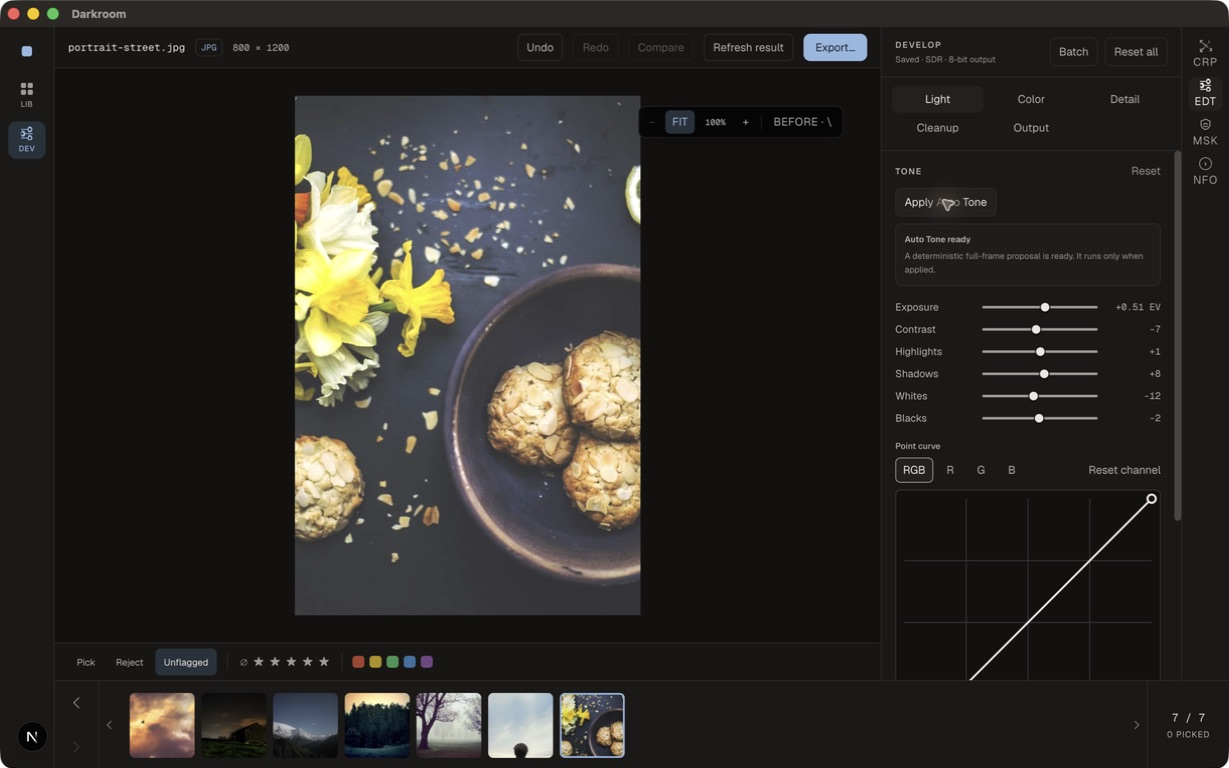
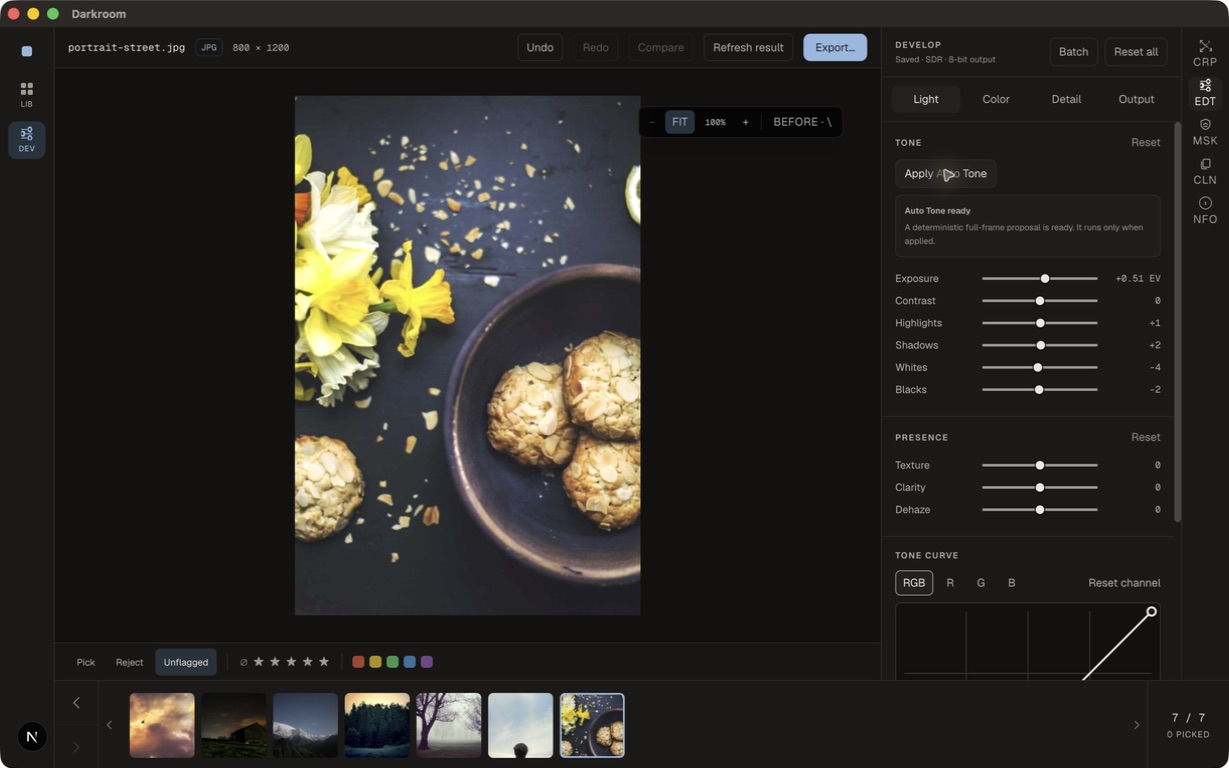
Refresh Develop panel screenshots

diff --git a/components/develop/EditPanel.tsx b/components/develop/EditPanel.tsx
@@ -1190,7 +1190,7 @@ function CleanupTab({
   );
 
   return (
-    <PanelSection title="Cleanup" onReset={() => reset("cleanup")}>
+    <PanelSection title="Manual cleanup" onReset={() => reset("cleanup")}>
       <div className="mb-2 flex flex-wrap gap-1.5">
         <ActionButton onClick={() => commit({ kind: "add", component: defaultCleanupComponent("heal") }, "Add heal repair")}>Add heal</ActionButton>
         <ActionButton onClick={() => commit({ kind: "add", component: defaultCleanupComponent("clone") }, "Add clone repair")}>Add clone</ActionButton>
